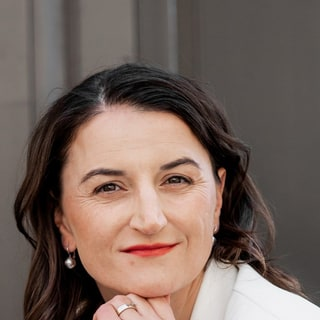
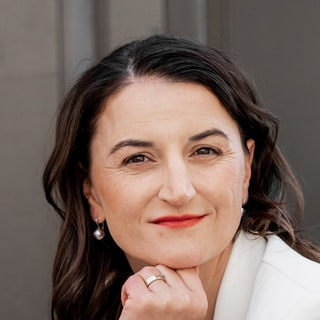
Jednotné náhledy článků s piktogramy a lepší ořez fotky
- šest náhledů v barvách Adisonu (generuje scripts/nahledy.mjs), verze SVG i PNG pro sdílení
- původní grafiky se přesunuly dovnitř článků
- fotka Alžběty je v kolečku vycentrovaná

diff --git a/src/styles/global.css b/src/styles/global.css
@@ -111,6 +111,9 @@ p { margin: 0 0 1em; }
   border-bottom: 1px solid var(--linka);
 }
 .karta-obrazek img { width: 100%; height: 100%; object-fit: contain; transition: transform .5s cubic-bezier(.2, .8, .2, 1); }
+/* jednotné náhledy článků vyplní celou plochu kartičky */
+.karta-obrazek-plna { padding: 0; background: none; }
+.karta-obrazek-plna img { object-fit: cover; }
 .karta:hover .karta-obrazek img { transform: scale(1.04); }
 .karta-obrazek-prazdny {
   display: grid; place-items: center; background: var(--gradient); color: #fff;

diff --git a/src/content/clanky/framework-proc-a-jak-planovat-a-merit.md b/src/content/clanky/framework-proc-a-jak-planovat-a-merit.md
@@ -3,13 +3,15 @@ title: "AMEC Framework: Jak plánovat a měřit PR, které má skutečný dopad"
 description: "Kolik tiskových zpráv jste poslali? Kolik zmínek vyšlo? Pokud tady vaše měření končí, ukážeme vám, proč to nestačí."
 typ: Článek
 temata: ["AMEC framework", "Plánování"]
-image: /images/untitled-design.png
+image: /images/nahledy/amec-framework.svg
 poradi: 2
 ---
 
 Kolik tiskových zpráv jste poslali? Kolik zmínek vyšlo? Pokud tady vaše měření končí, ukážeme vám, proč to nestačí. V moderním světě PR už dávno nestačí jen „něco“ vypustit do světa a doufat v to nejlepší. Profesionální komunikace je strategická disciplína, která musí prokazovat svou hodnotu. Ale jak na to? Klíčem je plánování, které začíná od konce – od žádaného výsledku. A právě k tomu slouží AMEC Integrated Evaluation Framework.
 
 Tento komplexní, ale intuitivní model, vyvinutý Mezinárodní asociací pro měření a hodnocení komunikace (AMEC), je zásadní pomůckou pro každého PR manažera a stratéga. Namísto zastaralého a zavádějícího počítání „počtu zmínek“ se zaměřuje na to, co skutečně ovlivňuje byznys a reputaci.
+
+![Úrovně měření: aktivity, výstupy, efekt, dopad a strategické plánování](/images/untitled-design.png)
 
 ## Od čeho začít? Vždy od dopadu!
 

diff --git a/src/content/clanky/aktualizace-barcelonskych-principu-40.md b/src/content/clanky/aktualizace-barcelonskych-principu-40.md
@@ -3,7 +3,7 @@ title: "Barcelonské principy 4.0: Proč je měření PR zase o krok dál"
 description: "Patnáct let poté, co měření PR dostalo svůj kompas, přichází další aktualizace. Barcelonské principy 4.0 nejsou revolucí, ale důslednou evolucí."
 typ: Článek
 temata: ["Barcelonské principy", "AMEC framework"]
-image: /images/barcelonskeprincipy-40.jpg
+image: /images/nahledy/barcelonske-principy.svg
 poradi: 1
 ---
 
@@ -18,6 +18,8 @@ Na první pohled se zdá, že principy zůstaly téměř stejné: stále sedm bo
 - **Od statických kampaní ke kontinuálnímu procesu.** Komunikace už není „raketa“, kterou odpálíme a pak vyhodnotíme. Je to cyklus – průběžně měříme, okamžitě reagujeme a podle výsledků upravujeme další kroky.
 - **Stakeholdeři jako spolutvůrci hodnoty.** Publikum není jen příjemce sdělení. Aktivně se zapojuje, diskutuje, dává zpětnou vazbu. Teprve tehdy se z komunikace stává skutečně dvousměrný proces.
 - **Etika a transparentnost technologií.** V éře generativní AI a sofistikovaných analytických nástrojů musíme vědět, jak metriky vznikají – a být schopni je ověřit a zopakovat.
+
+![Barcelonské principy 4.0 – přehled sedmi principů](/images/barcelonskeprincipy-40.jpg)
 
 ## 7 principů, které by měl znát každý PR tým
 

diff --git a/src/content/clanky/hlavni-metriky-pro-media-relations.md b/src/content/clanky/hlavni-metriky-pro-media-relations.md
@@ -3,7 +3,7 @@ title: "Hlavní metriky pro media relations: Od dosahu po dopad"
 description: "Počítáte počet zmínek v médiích a říkáte tomu měření PR? Přehled užitečných metrik pro media relations na všech úrovních – od aktivit po dopad na byznys."
 typ: Článek
 temata: ["Metriky", "Media relations"]
-image: /images/snimek-obrazovky-2026-06-02-151810.png
+image: /images/nahledy/metriky.svg
 poradi: 3
 ---
 
@@ -133,5 +133,7 @@ Na rozdíl od performance marketingu tu nemáme jeden univerzální ukazatel typ
 Metriky samy o sobě nejsou cílem. Jsou kompasem, který ukazuje, kam vaše komunikace směřuje. Dobrý systém měření media relations kombinuje metriky ze všech úrovní, je přizpůsobený konkrétním cílům a poskytuje jasné insighty pro další kroky.
 
 A hlavně: **měřte to, co potřebujete vědět pro rozhodování. Ne to, co se nejsnáze spočítá.**
+
+![Metrik.world – interaktivní databáze metrik](/images/snimek-obrazovky-2026-06-02-151810.png)
 
 > **Nápovědu hledejte v Metrik.world!** Metrik.world je interaktivní databáze metrik pro měření a vyhodnocování komunikace. Pomůže vám vybrat správné metriky, pochopit jejich přínosy i limity a propojit měření s Integrated Evaluation Framework. [Přejít na Metrik.world →](https://www.metrik.world/)

diff --git a/src/content/clanky/kvalitativni-indexy.md b/src/content/clanky/kvalitativni-indexy.md
@@ -3,7 +3,7 @@ title: "Kvalitativní indexy v PR: Proč nestačí počítat zmínky"
 description: "Reach, imprese a GRP ukazují, kde jste se objevili. Kvalitativní indexy ukazují, jak – Adix, PRIMe, PR Index, Kick Butt Index a jak si nastavit vlastní."
 typ: Článek
 temata: ["Metriky", "Kvalitativní analýza", "Media relations"]
-image: /images/nahledy/kvalitativni-indexy.svg
+image: /images/nahledy/kvalitativni-index.svg
 poradi: 5
 ---
 

diff --git a/src/content/clanky/kompilat-bp40-plus-chyby.md b/src/content/clanky/kompilat-bp40-plus-chyby.md
@@ -3,7 +3,7 @@ title: "Barcelonské principy 4.0 a nejčastější chyby v měření"
 description: "Jak dělat PR, které má hodnotu: co si z Barcelonských principů 4.0 vzít do praxe a jak se vyhnout nejčastějším chybám v měření."
 typ: Shrnutí
 temata: ["Barcelonské principy", "Metriky"]
-image: /images/nahledy/kompilat-bp40-plus-chyby.svg
+image: /images/nahledy/chyby-v-mereni.svg
 poradi: 4
 ---
 

diff --git a/src/content/clanky/pr-measurement-checklist.md b/src/content/clanky/pr-measurement-checklist.md
@@ -3,7 +3,7 @@ title: "PR Measurement: Checklist"
 description: "Na co nezapomenout při nastavování PR měření. Rychlý checklist podle AMEC frameworku a Barcelonských principů."
 typ: Checklist
 temata: ["AMEC framework", "Barcelonské principy", "Plánování"]
-image: /images/nahledy/pr-measurement-checklist.svg
+image: /images/nahledy/checklist.svg
 poradi: 6
 ---
 
